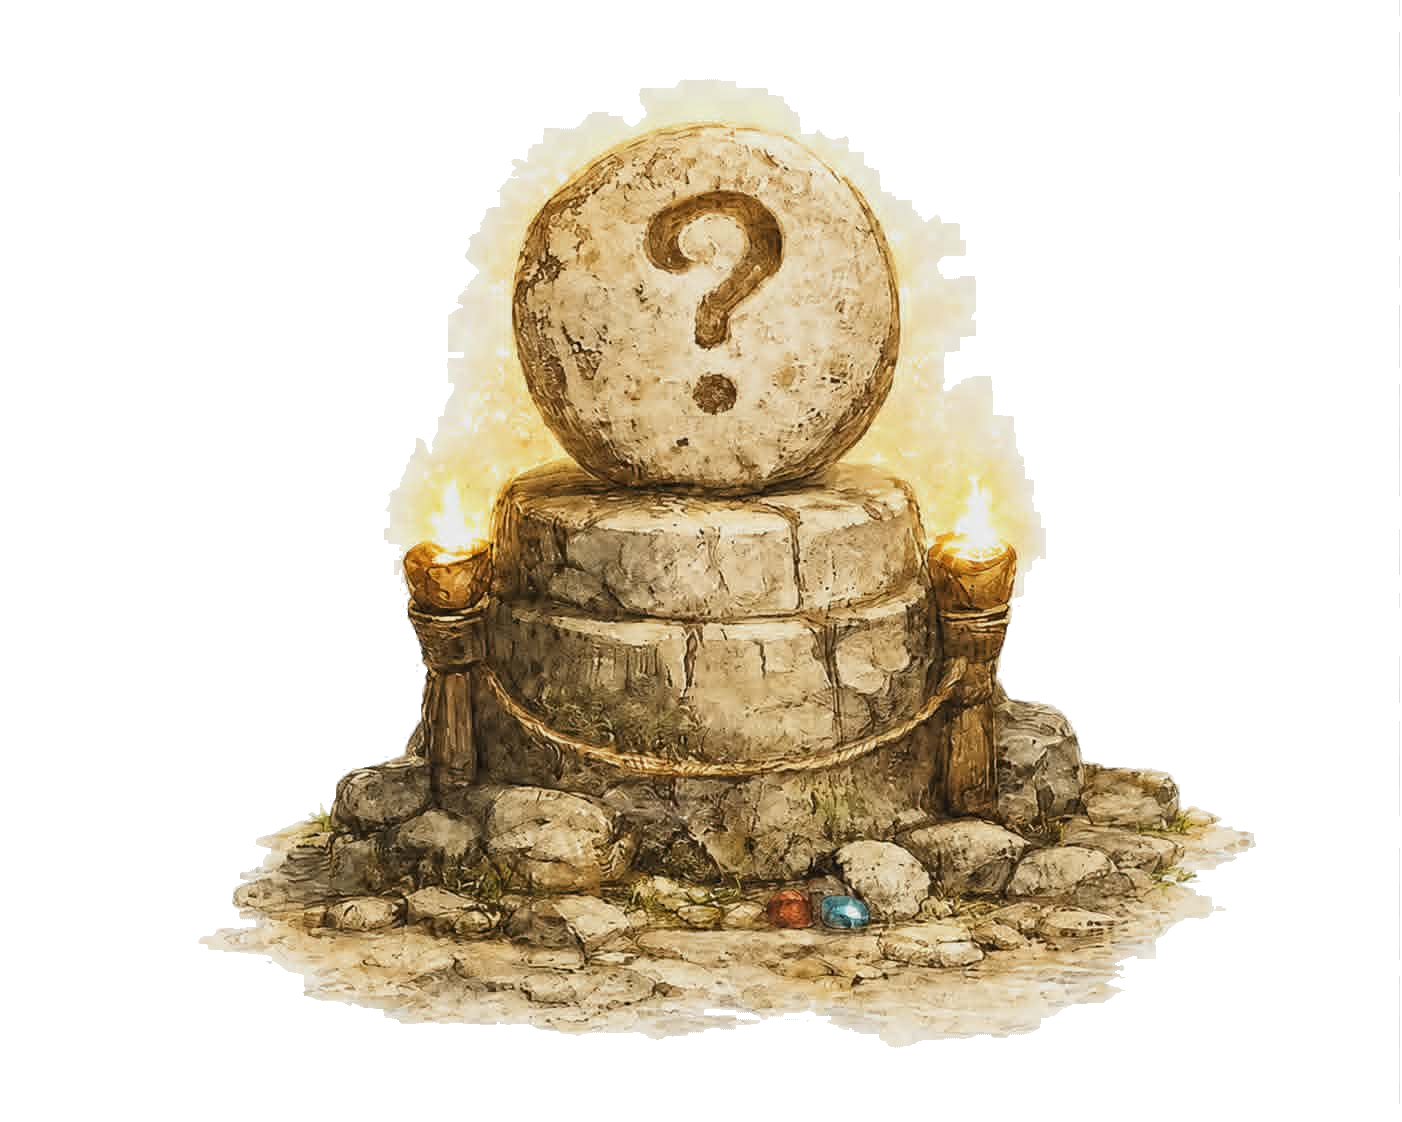
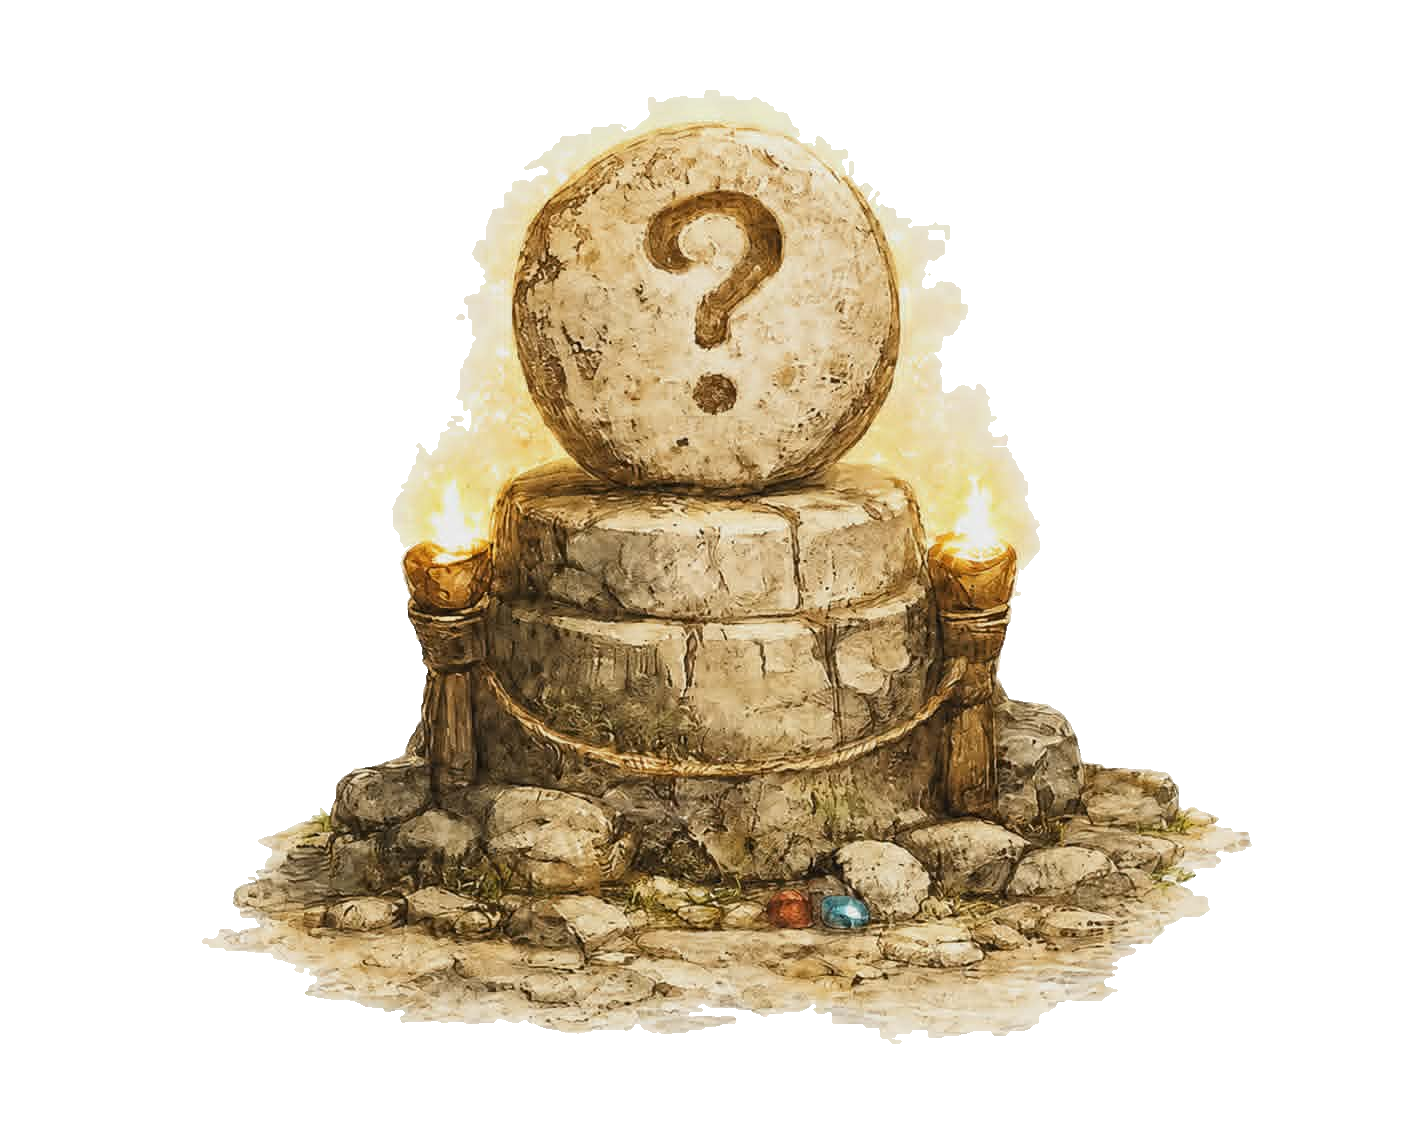
Fáza 5 oprava: čistejší TOTEM.png + plynulý prechod na kód 13177
Pripomienky Janky (S6):
1. TOTEM.png: zvyšky pozadia (zvislá čiara + fliačiky pri žiare) odstránené —
   vyššia tolerancia flood-fillu + morfologické čistenie osamelých pixelov.
2. Kód 13177 (obr.14) sa teraz objaví V šifrovej obrazovke (obr.13): pergamen
   nezmizne, len stmavne a kód sa naň prekryje. Zrušená samostatná obrazovka
   finale-kod → žiadny presvit mapy medzi krokmi, prechod je plynulý.

diff --git a/style.css b/style.css
@@ -521,13 +521,24 @@ body {
   margin-top: 1%;
 }
 
-/* Obr.14 — veľký kód nad stlmeným pergamenom v pozadí */
+/*
+  Obr.14 — kód sa objaví V šifrovej obrazovke: pergamen (obr.13) len stmavne (nezmizne)
+  a kód-blok sa naň prekryje absolútne. Prechod je plynulý (žiadny presvit mapy, S6).
+*/
+.sifra-obr {
+  transition: filter 0.5s ease;       /* jemné stmavnutie pergamenu pri objavení kódu */
+}
 .sifra-stlmena {
-  position: absolute;                 /* pergamen ostáva v pozadí (BRS), kód leží nad ním */
-  filter: brightness(0.3) blur(2px);
+  filter: brightness(0.28);
 }
 .kod-blok {
-  position: relative;                 /* nad stlmeným pozadím */
+  position: absolute;                 /* prekryv nad stlmeným pergamenom v tej istej obrazovke */
+  inset: 0;
+  display: flex;
+  flex-direction: column;
+  align-items: center;
+  justify-content: center;
+  animation: zjavenie 0.5s ease;      /* kód sa jemne objaví */
 }
 .kod-cislo {
   margin: 0;

diff --git a/app.js b/app.js
@@ -457,7 +457,7 @@ var finaleFaza = null;
 var finaleCasovace = [];
 
 var FINALE_OBALY = ["finale-zaverecna", "finale-mystery", "finale-sifra",
-                    "finale-kod", "finale-truhlica"];
+                    "finale-truhlica"];
 
 /** Zruší naplánované automatické prechody finále. */
 function zrusFinaleCasovace() {
@@ -524,16 +524,23 @@ function ukazSifru() {
   finaleFaza = "sifra";
   skryFinaleObaly();
   document.getElementById("sifra-obr").src = FINALE_OBRAZKY.sifra;
+  // Pri (opätovnom) vstupe do šifry: kód skrytý, pergamen v plnom jase, tlačidlo Ďalej späť.
+  document.getElementById("kod-blok").classList.add("skryta");
+  document.getElementById("sifra-obr").classList.remove("sifra-stlmena");
+  document.getElementById("sifra-dalej").classList.remove("skryta");
   document.getElementById("finale-sifra").classList.remove("skryta");
 }
 
-/** Obr.14 — potvrdenie kódu 13177 nad stlmeným pergamenom. */
+/**
+ * Obr.14 — potvrdenie kódu 13177. Pergamen (obr.13) NEZMIZNE — len sa stlmí a kód
+ * sa naň prekryje v tej istej obrazovke → plynulý prechod bez presvitu mapy (S6).
+ */
 function ukazKod() {
   finaleFaza = "kod";
-  skryFinaleObaly();
-  document.getElementById("kod-pozadie").src = FINALE_OBRAZKY.sifra;
+  document.getElementById("sifra-obr").classList.add("sifra-stlmena");   // pergamen do pozadia
+  document.getElementById("sifra-dalej").classList.add("skryta");        // jeho Ďalej nahradí Ďalej v kód-bloku
   document.getElementById("kod-cislo").textContent = KOD_TRUHLICE;
-  document.getElementById("finale-kod").classList.remove("skryta");
+  document.getElementById("kod-blok").classList.remove("skryta");
 }
 
 /** Obr.15 — otvorená truhlica: koniec aplikácie, obrazovka ostáva. */

diff --git a/index.html b/index.html
@@ -123,17 +123,17 @@
       <p class="finale-podtext">Získaj niečo, čo ťa na tvojej ceste dobrodružstvom poteší.</p>
     </div>
 
-    <!-- Obr.13 PERGAMEN — SYMBOLY A ČÍSLICE (náhodné poradie); deti hádajú kód -->
+    <!--
+      Obr.13 PERGAMEN — SYMBOLY A ČÍSLICE (náhodné poradie); deti hádajú kód.
+      Obr.14 KÓD 13177 sa objaví V TEJ ISTEJ obrazovke — pergamen NEZMIZNE, len sa
+      naň prekryje kód. Žiadny prechod cez mapu → plynulé (Jakub, S6 pripomienka).
+    -->
     <div id="finale-sifra" class="finale-obal skryta">
       <img id="sifra-obr" class="sifra-obr" alt="Pergamen so symbolmi a číslicami" />
       <button id="sifra-dalej" class="tlacidlo tlacidlo-hlavne finale-dalej"
               type="button">Ďalej</button>
-    </div>
-
-    <!-- Obr.14 KÓD 13177 — potvrdenie pre deti; pergamen ostáva stlmený v pozadí -->
-    <div id="finale-kod" class="finale-obal skryta">
-      <img id="kod-pozadie" class="sifra-obr sifra-stlmena" alt="" />
-      <div class="kod-blok">
+      <!-- Kód 13177 (obr.14): skrytý, kým vedúci neklikne Ďalej. Prekryv nad pergamenom. -->
+      <div id="kod-blok" class="kod-blok skryta">
         <p id="kod-cislo" class="kod-cislo"></p>
         <p class="kod-popis">Kód od pokladu</p>
         <button id="kod-dalej" class="tlacidlo tlacidlo-hlavne" type="button">Ďalej</button>